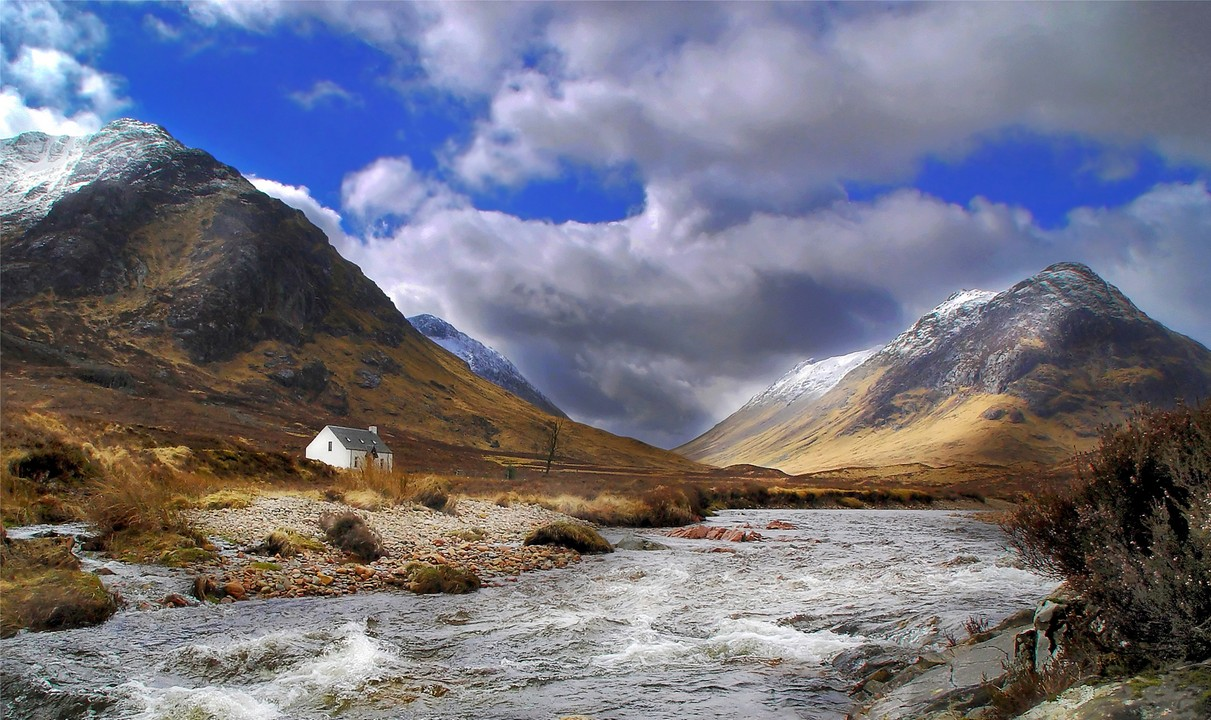
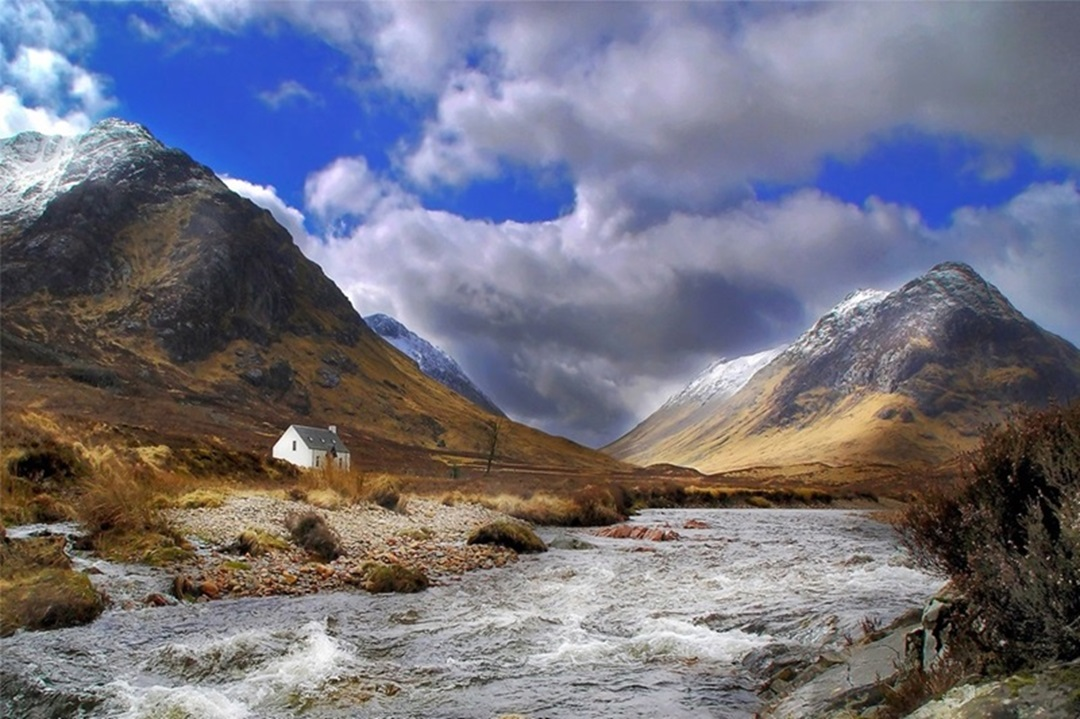
pushing lightbox assignment

diff --git a/One-Page Website/one_page_website.html b/One-Page Website/one_page_website.html
@@ -43,56 +43,77 @@
 				<h1>Gallery</h1>
 				<div>
 				
-					<!-- PHOTO CONTAINER 1 -->
-					<div>
-						<div>
-							<img src="./images/thumb/thumbnail_1.jpg" alt="Glen Coe">
-							<div>
-								<h3>Click to Enlarge</h3>
-								<p>Book your tour to Glen Coe!</p>
-							</div>
-						</div>
-					</div>
-					<!-- END PHOTO - CONTAINER 1 -->
-					
-					<!-- PHOTO CONTAINER 2 -->
-					<div>
-						<div>
-							<img src="./images/thumb/thumbnail_2.jpg" alt="Edinburgh">
-							<div>
-								<h3>Click to Enlarge</h3>
-								<p>Book your tour to Edinburgh!</p>
-							</div>
-						</div>
-					</div>
-					<!-- END PHOTO - CONTAINER 2 -->
-					
-					<!-- PHOTO CONTAINER 3 -->
-					<div>
-						<div>
-							<img src="./images/thumb/thumbnail_3.jpg" alt="Glenfinnan">
-							<div>
-								<h3>Click to Enlarge</h3>
-								<p>Book your tour to Glenfinnan, Mallaig !</p>
-							</div>
-						</div>
-					</div>
-					<!-- END PHOTO - CONTAINER 3 -->
-					
-					<!-- PHOTO CONTAINER 4 -->
-					<div>
-						<div>
-							<img src="./images/thumb/thumbnail_4.jpg" alt="Isle of Sky">
-							<div>
-								<h3>Click to Enlarge</h3>
-								<p>Book your tour to Isle of Sky!</p>
-							</div>
-						</div>
-					</div>
-					<!-- END PHOTO - CONTAINER 4 -->
-		
-				</div>
-			</div>
+<!-- Images used to open the lightbox -->
+<div class="row">
+	<div class="column">
+	  <img src="./images/thumb/thumbnail_1s.jpg" alt="Glen Coe" onclick="openModal();currentSlide(1)" class="hover-shadow">
+	</div>
+	<div class="column">
+	  <img src="./images/thumb/thumbnail_2s.jpg" alt="Edinburgh" onclick="openModal();currentSlide(2)" class="hover-shadow">
+	</div>
+	<div class="column">
+	  <img src="./images/thumb/thumbnail_3s.jpg" alt="Glenfinnan" onclick="openModal();currentSlide(3)" class="hover-shadow">
+	</div>
+	<div class="column">
+	  <img src="./images/thumb/thumbnail_4s.jpg" alt="Isle of Sky" onclick="openModal();currentSlide(4)" class="hover-shadow">
+	</div>
+  </div>
+  
+  <!-- The Modal/Lightbox -->
+  <div id="myModal" class="modal">
+	<span class="close cursor" onclick="closeModal()">&times;</span>
+	<div class="modal-content">
+  
+	  <div class="mySlides">
+		<div class="numbertext">1 / 4</div>
+		<img src="./images/thumb/thumbnail_1.jpg" alt="Glen Coe" style="width:100%">
+	  </div>
+  
+	  <div class="mySlides">
+		<div class="numbertext">2 / 4</div>
+		<img src="./images/thumb/thumbnail_2.jpg" alt="Edinburgh" style="width:100%">
+	  </div>
+  
+	  <div class="mySlides">
+		<div class="numbertext">3 / 4</div>
+		<img src="./images/thumb/thumbnail_3.jpg" alt="Glenfinnan" style="width:100%">
+	  </div>
+  
+	  <div class="mySlides">
+		<div class="numbertext">4 / 4</div>
+		<img src="./images/thumb/thumbnail_4.jpg" alt="Isle of Sky" style="width:100%">
+	  </div>
+  
+	  <!-- Next/previous controls -->
+	  <a class="prev" onclick="plusSlides(-1)">&#10094;</a>
+	  <a class="next" onclick="plusSlides(1)">&#10095;</a>
+  
+	  <!-- Caption text -->
+	  <div class="caption-container">
+		<p id="caption"></p>
+	  </div>
+  
+	  <!-- Thumbnail image controls -->
+	  <div class="column">
+		<img class="demo" src="./images/thumb/Thumbnail_1s.jpg" onclick="currentSlide(1)" alt="Glen Coe">
+	  </div>
+  
+	  <div class="column">
+		<img class="demo" src="./images/thumb/Thumbnail_2s.jpg" onclick="currentSlide(2)" alt="Edinburgh">
+	  </div>
+  
+	  <div class="column">
+		<img class="demo" src="./images/thumb/Thumbnail_3s.jpg" onclick="currentSlide(3)" alt="Glenfinnan">
+	  </div>
+  
+	  <div class="column">
+		<img class="demo" src="./images/thumb/Thumbnail_4s.jpg" onclick="currentSlide(4)" alt="Isle of Sky">
+	  </div>
+	</div>
+  </div>
+
+
+
 		</section>
 		<!-- END GALLERY -->
 		
@@ -132,5 +153,8 @@
 			 &copy; by Vlad 2023
 		</div>
 		<!-- END FOOTER -->
+	
+	<script src="JS/one_page_website.js"></script>
+
 	</body>
 </html>

diff --git a/One-Page Website/CSS/one_page_website.css b/One-Page Website/CSS/one_page_website.css
@@ -18,3 +18,132 @@ input[type="text"] {
     border-radius: 9px;
 }
 
+
+
+
+
+.row > .column {
+    padding: 0 8px;
+  }
+  
+  .row:after {
+    content: "";
+    display: table;
+    clear: both;
+  }
+  
+  /* Create four equal columns that floats next to eachother */
+  .column {
+    float: left;
+    width: 23%;
+  }
+  
+  /* The Modal (background) */
+  .modal {
+    display: none;
+    position: fixed;
+    z-index: 1;
+    padding-top: 100px;
+    left: 0;
+    top: 0;
+    width: 100%;
+    height: 100%;
+    overflow: auto;
+    background-color: black;
+  }
+  
+  /* Modal Content */
+  .modal-content {
+    position: relative;
+    background-color: #fefefe;
+    margin: auto;
+    padding: 0;
+    width: 90%;
+    max-width: 1200px;
+  }
+  
+  /* The Close Button */
+  .close {
+    color: white;
+    position: absolute;
+    top: 10px;
+    right: 25px;
+    font-size: 35px;
+    font-weight: bold;
+  }
+  
+  .close:hover,
+  .close:focus {
+    color: #999;
+    text-decoration: none;
+    cursor: pointer;
+  }
+  
+  /* Hide the slides by default */
+  .mySlides {
+    display: none;
+  }
+  
+  /* Next & previous buttons */
+  .prev,
+  .next {
+    cursor: pointer;
+    position: absolute;
+    top: 50%;
+    width: auto;
+    padding: 16px;
+    margin-top: -50px;
+    color: white;
+    font-weight: bold;
+    font-size: 20px;
+    transition: 0.6s ease;
+    border-radius: 0 3px 3px 0;
+    user-select: none;
+    -webkit-user-select: none;
+  }
+  
+  /* Position the "next button" to the right */
+  .next {
+    right: 0;
+    border-radius: 3px 0 0 3px;
+  }
+  
+  /* On hover, add a black background color with a little bit see-through */
+  .prev:hover,
+  .next:hover {
+    background-color: rgba(0, 0, 0, 0.8);
+  }
+  
+  /* Number text (1/3 etc) */
+  .numbertext {
+    color: #f2f2f2;
+    font-size: 12px;
+    padding: 8px 12px;
+    position: absolute;
+    top: 0;
+  }
+  
+  /* Caption text */
+  .caption-container {
+    text-align: center;
+    background-color: black;
+    padding: 2px 16px;
+    color: white;
+  }
+  
+  img.demo {
+    opacity: 0.6;
+  }
+  
+  .active,
+  .demo:hover {
+    opacity: 1;
+  }
+  
+  img.hover-shadow {
+    transition: 0.3s;
+  }
+  
+  .hover-shadow:hover {
+    box-shadow: 0 4px 8px 0 rgba(0, 0, 0, 0.2), 0 6px 20px 0 rgba(0, 0, 0, 0.19);
+  }

diff --git a/Bootstrap4_project/column.html b/Bootstrap4_project/column.html
@@ -1,0 +1,31 @@
+<!doctype html>
+<html lang="en">
+  <head>
+    <!-- Required meta tags -->
+    <meta charset="utf-8">
+    <meta name="viewport" content="width=device-width, initial-scale=1, shrink-to-fit=no">
+
+    <!-- Bootstrap CSS -->
+    <link rel="stylesheet" href="https://cdn.jsdelivr.net/npm/bootstrap@4.3.1/dist/css/bootstrap.min.css" integrity="sha384-ggOyR0iXCbMQv3Xipma34MD+dH/1fQ784/j6cY/iJTQUOhcWr7x9JvoRxT2MZw1T" crossorigin="anonymous">
+
+    <title>Column challendge</title>
+  </head>
+  <body>
+    <div class="container">
+      <div class="row">
+        <div class="col-sm">
+         <p> two columnsOne of two columnsOne of two columnsOne of two columnsOne of two columnsOne of two columns</p>
+        </div>
+        <div class="col-sm">
+          <p>fgdbvgfklgklbngklnblkgnbklgnblkgnbgklnbklgnbklgnbklgnbklgnb</p>
+        </div>
+        </div>
+    </div>
+
+    <!-- Optional JavaScript -->
+    <!-- jQuery first, then Popper.js, then Bootstrap JS -->
+    <script src="https://code.jquery.com/jquery-3.3.1.slim.min.js" integrity="sha384-q8i/X+965DzO0rT7abK41JStQIAqVgRVzpbzo5smXKp4YfRvH+8abtTE1Pi6jizo" crossorigin="anonymous"></script>
+    <script src="https://cdn.jsdelivr.net/npm/popper.js@1.14.7/dist/umd/popper.min.js" integrity="sha384-UO2eT0CpHqdSJQ6hJty5KVphtPhzWj9WO1clHTMGa3JDZwrnQq4sF86dIHNDz0W1" crossorigin="anonymous"></script>
+    <script src="https://cdn.jsdelivr.net/npm/bootstrap@4.3.1/dist/js/bootstrap.min.js" integrity="sha384-JjSmVgyd0p3pXB1rRibZUAYoIIy6OrQ6VrjIEaFf/nJGzIxFDsf4x0xIM+B07jRM" crossorigin="anonymous"></script>
+  </body>
+</html>

diff --git a/One-Page Website/JS/one_page_website.js b/One-Page Website/JS/one_page_website.js
@@ -1,0 +1,41 @@
+
+// Open the Modal
+function openModal() {
+  document.getElementById("myModal").style.display = "block";
+}
+
+// Close the Modal
+function closeModal() {
+  document.getElementById("myModal").style.display = "none";
+}
+
+var slideIndex = 1;
+showSlides(slideIndex);
+
+// Next/previous controls
+function plusSlides(n) {
+  showSlides(slideIndex += n);
+}
+
+// Thumbnail image controls
+function currentSlide(n) {
+  showSlides(slideIndex = n);
+}
+
+function showSlides(n) {
+  var i;
+  var slides = document.getElementsByClassName("mySlides");
+  var dots = document.getElementsByClassName("demo");
+  var captionText = document.getElementById("caption");
+  if (n > slides.length) {slideIndex = 1}
+  if (n < 1) {slideIndex = slides.length}
+  for (i = 0; i < slides.length; i++) {
+    slides[i].style.display = "none";
+  }
+  for (i = 0; i < dots.length; i++) {
+    dots[i].className = dots[i].className.replace(" active", "");
+  }
+  slides[slideIndex-1].style.display = "block";
+  dots[slideIndex-1].className += " active";
+  captionText.innerHTML = dots[slideIndex-1].alt;
+}
